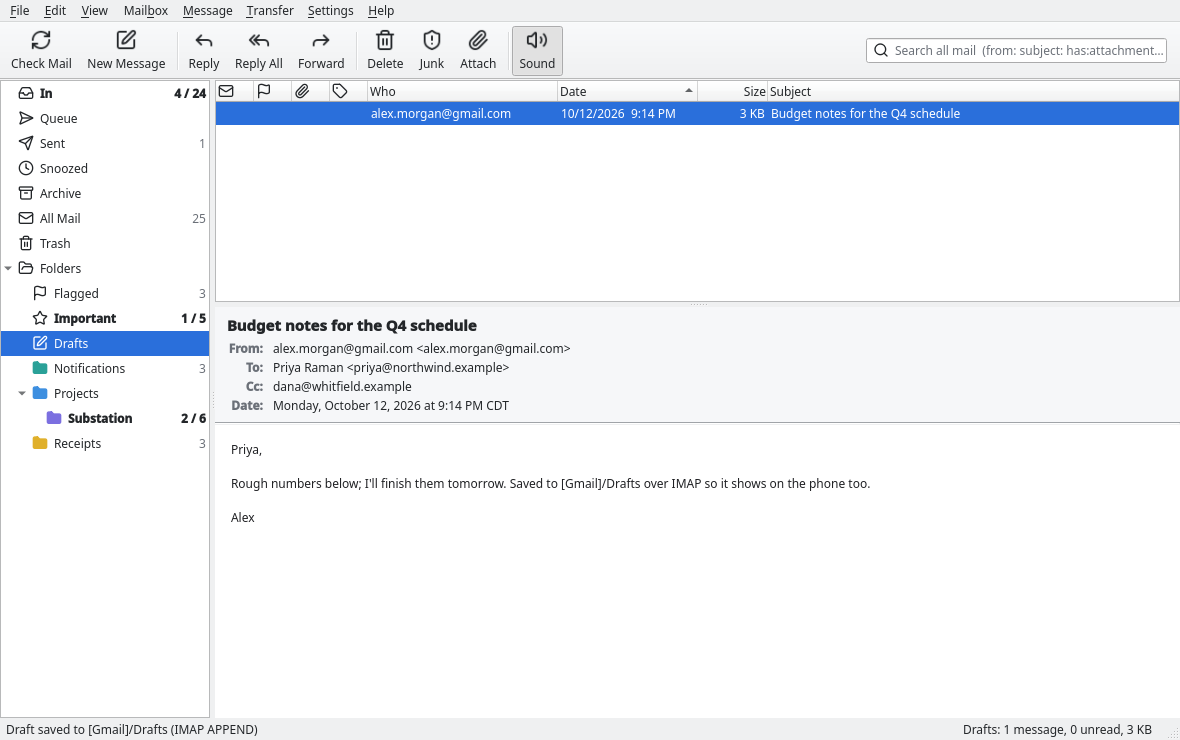
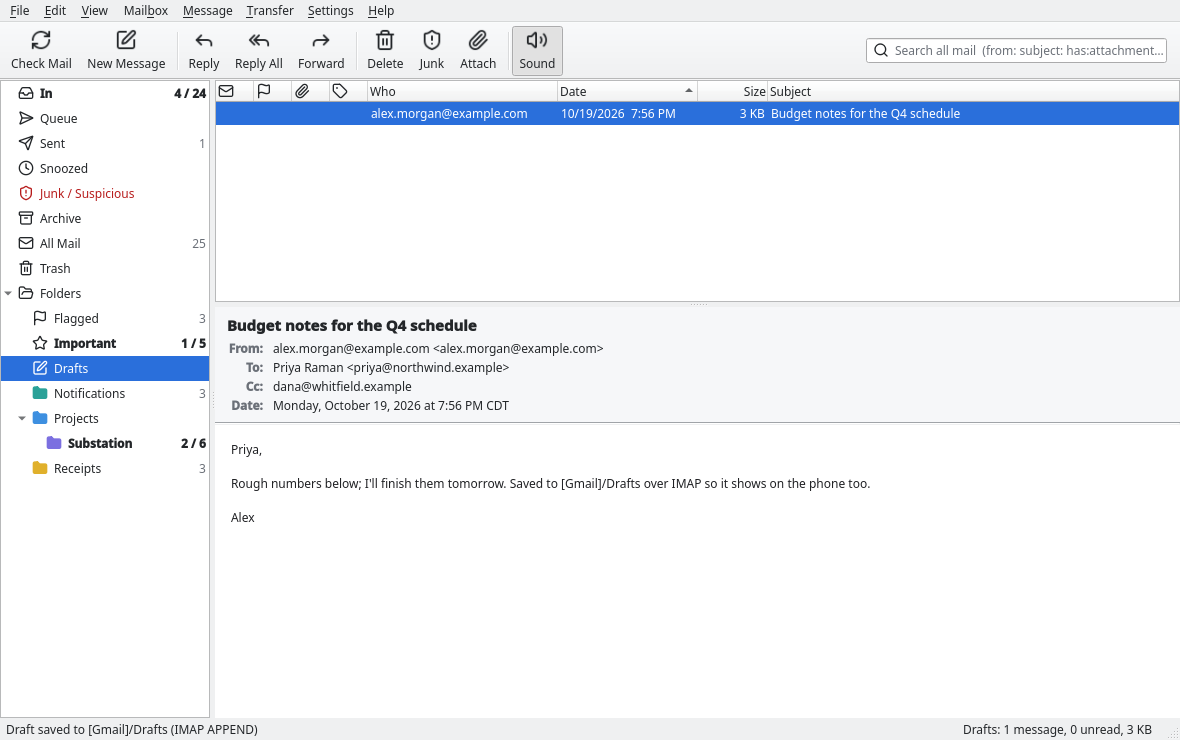
Docs and tests: no personal or real-domain addresses; regenerate screenshots
docs/PLAN.md no longer names a personal address. Test fixtures use
example.com / .example addresses (gmail.com, outlook.com, comed.com and
other registrable domains replaced). The app-password and IMAP screenshots
are regenerated offscreen against the fake servers.

diff --git a/tests/tst_emptyjunk.cpp b/tests/tst_emptyjunk.cpp
@@ -47,9 +47,9 @@ using zmail::test::MockGoogle;
 
 namespace {
 
-QByteArray mail(const QString &subject, const char *from = "Crypto Alerts <alerts@coin-boost.top>")
+QByteArray mail(const QString &subject, const char *from = "Crypto Alerts <alerts@coin-boost.example>")
 {
-    return QByteArray("From: ") + from + "\r\nTo: Alex Morgan <alex.morgan@gmail.com>\r\nSubject: " + subject.toUtf8()
+    return QByteArray("From: ") + from + "\r\nTo: Alex Morgan <alex.morgan@example.com>\r\nSubject: " + subject.toUtf8()
            + "\r\nDate: Mon, 12 Oct 2026 22:40:00 -0500\r\nMessage-ID: <" + subject.toUtf8().toHex().left(24)
            + "@mail.test>\r\nContent-Type: text/plain; charset=utf-8\r\n\r\nHello.\r\n";
 }
@@ -76,7 +76,7 @@ struct ImapRig
     explicit ImapRig(int spamCount, bool start = true)
     {
         for (int i = 0; i < 3; ++i) {
-            inbox << server.deliver(mail(QStringLiteral("Panel schedule %1").arg(i), "Dana Whitfield <dana@lakeshore-electric.com>"));
+            inbox << server.deliver(mail(QStringLiteral("Panel schedule %1").arg(i), "Dana Whitfield <dana@lakeshore-electric.example>"));
         }
         for (int i = 0; i < spamCount; ++i) {
             spam << server.deliver(mail(QStringLiteral("Double your balance %1").arg(i)), {QStringLiteral("\\Spam")});
@@ -167,7 +167,7 @@ struct ApiRig
     static MockGoogle::Message msg(const QString &subject, const QStringList &labels)
     {
         MockGoogle::Message m;
-        m.from = QStringLiteral("Crypto Alerts <alerts@coin-boost.top>");
+        m.from = QStringLiteral("Crypto Alerts <alerts@coin-boost.example>");
         m.to = QStringLiteral("demo.user@example.com");
         m.subject = subject;
         m.text = QStringLiteral("Body of ") + subject;
@@ -207,7 +207,7 @@ struct UiRig
 
     explicit UiRig(int spamCount)
     {
-        imap.deliver(mail(QStringLiteral("Panel schedule for the Oak St job"), "Dana Whitfield <dana.whitfield@lakeshore-electric.com>"));
+        imap.deliver(mail(QStringLiteral("Panel schedule for the Oak St job"), "Dana Whitfield <dana.whitfield@lakeshore-electric.example>"));
         imap.deliver(mail(QStringLiteral("Lunch on Thursday?"), "Sam Ortiz <sam.ortiz@example.org>"));
         imap.deliver(mail(QStringLiteral("Your October statement is ready"), "Northside Credit Union <statements@northside-cu.example>"));
         for (int i = 0; i < spamCount; ++i) {
@@ -215,7 +215,7 @@ struct UiRig
                                       : i < 4 ? QStringList{QStringLiteral("You have been selected"), QStringLiteral("Final notice: claim your prize"),
                                                             QStringLiteral("Cheap meds, no prescription")}.at(i - 1)
                                               : QStringLiteral("Prize notice %1").arg(i),
-                                      i % 2 ? "Prize Desk <winner@prize-desk.biz>" : "Crypto Alerts <alerts@coin-boost.top>"),
+                                      i % 2 ? "Prize Desk <winner@prize-desk.example>" : "Crypto Alerts <alerts@coin-boost.example>"),
                                  {QStringLiteral("\\Spam")});
         }
         store.values.insert(AppPasswordAccount::appPasswordKey(imap.user), imap.password);

diff --git a/tests/dialogshot.cpp b/tests/dialogshot.cpp
@@ -66,7 +66,7 @@ void shoot(QWidget *w, const QString &path)
 void fill(ui::AppPasswordDialog &d, const QString &pw)
 {
     d.findChild<QLineEdit *>(QStringLiteral("displayNameEdit"))->setText(QStringLiteral("Alex Morgan"));
-    d.findChild<QLineEdit *>(QStringLiteral("emailEdit"))->setText(QStringLiteral("alex.morgan@gmail.com"));
+    d.findChild<QLineEdit *>(QStringLiteral("emailEdit"))->setText(QStringLiteral("alex.morgan@example.com"));
     d.findChild<QLineEdit *>(QStringLiteral("appPasswordEdit"))->setText(pw);
 }
 bool waitTest(ui::AppPasswordDialog &d)
@@ -222,7 +222,7 @@ int main(int argc, char *argv[])
             d.subject = QStringLiteral("From line with your name");
             c.setDraft(d);
             c.findChild<QTextEdit *>(QStringLiteral("composeBody"))
-                ->setPlainText(QStringLiteral("From now shows \u201cAlex Morgan <alex.morgan@gmail.com>\u201d: set in the account "
+                ->setPlainText(QStringLiteral("From now shows \u201cAlex Morgan <alex.morgan@example.com>\u201d: set in the account "
                                               "dialog or Settings \u2192 Your Name\u2026"));
             c.resize(820, 420);
             c.show();
@@ -263,7 +263,7 @@ int main(int argc, char *argv[])
             snap("imap-drafts.png");
             for (const char *subj : {"Site visit moved to Thursday", "Invoice 4471 follow-up"}) {
                 MailCache::QueuedMessage q;
-                q.mime = QByteArray("From: Alex Morgan <alex.morgan@gmail.com>\r\nTo: Marcus Lee <marcus.lee@example.org>\r\n"
+                q.mime = QByteArray("From: Alex Morgan <alex.morgan@example.com>\r\nTo: Marcus Lee <marcus.lee@example.org>\r\n"
                                     "Subject: ") + subj + "\r\nMIME-Version: 1.0\r\nContent-Type: text/plain\r\n\r\n"
                                     "Sent with File > Send Queued Messages over SMTP.\r\n";
                 q.subject = QString::fromLatin1(subj);
@@ -310,7 +310,7 @@ int main(int argc, char *argv[])
             QSignalSpy got(sync, &SyncEngine::newMail);
             QTest::qWaitFor([&] { return imap.anyIdling(); }, 5000);
             const QByteArray pdf("%PDF-1.4 fake demo bytes\n");
-            imap.deliver("From: Jordan Kim <jordan.kim@example.net>\r\nTo: alex.morgan@gmail.com\r\n"
+            imap.deliver("From: Jordan Kim <jordan.kim@example.net>\r\nTo: alex.morgan@example.com\r\n"
                          "Subject: Breaker spec sheet (attachment over IMAP)\r\nMIME-Version: 1.0\r\n"
                          "Content-Type: multipart/mixed; boundary=b1\r\n\r\n--b1\r\nContent-Type: text/plain\r\n\r\n"
                          "Spec sheet attached; File > Save Attachments fetches it over IMAP.\r\n--b1\r\n"

diff --git a/tests/tst_imapextras.cpp b/tests/tst_imapextras.cpp
@@ -59,7 +59,7 @@ struct Engine
 
 QByteArray mail(const QByteArray &subject)
 {
-    return "From: Alex Morgan <alex.morgan@gmail.com>\r\nTo: priya@northwind.example\r\nSubject: " + subject
+    return "From: Alex Morgan <alex.morgan@example.com>\r\nTo: priya@northwind.example\r\nSubject: " + subject
         + "\r\nMIME-Version: 1.0\r\nContent-Type: text/plain\r\n\r\nHello.\r\n";
 }
 
@@ -315,7 +315,7 @@ private slots:
         auto *name = d.findChild<QLineEdit *>(QStringLiteral("displayNameEdit"));
         QVERIFY(name);
         name->setText(QStringLiteral("  Alex Morgan "));
-        d.findChild<QLineEdit *>(QStringLiteral("emailEdit"))->setText(QStringLiteral("alex.morgan@gmail.com"));
+        d.findChild<QLineEdit *>(QStringLiteral("emailEdit"))->setText(QStringLiteral("alex.morgan@example.com"));
         QCOMPARE(d.account().displayName, QStringLiteral("Alex Morgan"));
 
         FakeImapServer imap;
@@ -342,17 +342,17 @@ private slots:
         MainWindow w;
         w.setSession(&session);
         session.restoreSaved();
-        QCOMPARE(session.fromHeader(), QStringLiteral("Alex Morgan <alex.morgan@gmail.com>"));
+        QCOMPARE(session.fromHeader(), QStringLiteral("Alex Morgan <alex.morgan@example.com>"));
 
         QSignalSpy identity(&session, &MailSession::identityChanged);
         const QString answer = QStringLiteral("Morgan, Alex");
         QVERIFY(w.editDisplayName(&answer));
         QCOMPARE(identity.count(), 1);
-        QCOMPARE(session.fromHeader(), QStringLiteral("\"Morgan, Alex\" <alex.morgan@gmail.com>"));
+        QCOMPARE(session.fromHeader(), QStringLiteral("\"Morgan, Alex\" <alex.morgan@example.com>"));
         QCOMPARE(AppPasswordAccount::load(QSettings()).displayName, answer);
         const QString blank;
         QVERIFY(w.editDisplayName(&blank));
-        QCOMPARE(session.fromHeader(), QStringLiteral("alex.morgan@gmail.com"));
+        QCOMPARE(session.fromHeader(), QStringLiteral("alex.morgan@example.com"));
 
         // No vacation responder over IMAP/SMTP: say where to set it instead.
         QVERIFY(!w.showVacationDialog());

diff --git a/tests/tst_send.cpp b/tests/tst_send.cpp
@@ -270,7 +270,7 @@ private slots:
         OutgoingMessage m;
         m.from = QStringLiteral("Demo User <demo.user@example.com>");
         m.to = QStringLiteral("\"Raman, Priya\" <priya.raman@example.com>, h.lindqvist@example.com");
-        m.cc = QStringLiteral("José Núñez <jose@example.es>");
+        m.cc = QStringLiteral("José Núñez <jose@example.org>");
         m.bcc = QStringLiteral("audit@example.com");
         m.subject = QStringLiteral("Q4 budget — numbers attached ✓");
         m.text = QStringLiteral("Hi Priya,\n\nNumbers attached. Café at 3?\n");
@@ -289,7 +289,7 @@ private slots:
         QCOMPARE(p.headers.value("to"),
                  QStringLiteral("\"Raman, Priya\" <priya.raman@example.com>, h.lindqvist@example.com"));
         QVERIFY(p.headers.value("cc").startsWith(QStringLiteral("=?UTF-8?")));
-        QCOMPARE(decodeWords(p.headers.value("cc")), QStringLiteral("José Núñez <jose@example.es>"));
+        QCOMPARE(decodeWords(p.headers.value("cc")), QStringLiteral("José Núñez <jose@example.org>"));
         QCOMPARE(p.headers.value("bcc"), QStringLiteral("audit@example.com")); // Gmail strips it on delivery
         QCOMPARE(decodeWords(p.headers.value("subject")), m.subject);
         QVERIFY(p.headers.value("user-agent").startsWith(QStringLiteral("zmail/1.0.0")));
@@ -368,8 +368,8 @@ private slots:
 
     void addressListsSplitOnUnquotedCommas()
     {
-        QCOMPARE(MimeBuilder::splitAddresses(QStringLiteral("\"Raman, Priya\" <p@x.com>, b@x.com,, <c@x.com>")),
-                 (QStringList{QStringLiteral("\"Raman, Priya\" <p@x.com>"), QStringLiteral("b@x.com"), QStringLiteral("<c@x.com>")}));
+        QCOMPARE(MimeBuilder::splitAddresses(QStringLiteral("\"Raman, Priya\" <p@x.example>, b@x.example,, <c@x.example>")),
+                 (QStringList{QStringLiteral("\"Raman, Priya\" <p@x.example>"), QStringLiteral("b@x.example"), QStringLiteral("<c@x.example>")}));
     }
 
     // ---- formats -----------------------------------------------------------------

diff --git a/tests/tst_nodemo.cpp b/tests/tst_nodemo.cpp
@@ -26,7 +26,7 @@ namespace {
 
 QByteArray mail(const char *from, const char *subject, const char *date, const char *body)
 {
-    return QByteArray("From: ") + from + "\r\nTo: Stephen Johnson <stephen@gmail.com>\r\nSubject: " + subject
+    return QByteArray("From: ") + from + "\r\nTo: Stephen Johnson <stephen@example.com>\r\nSubject: " + subject
            + "\r\nDate: " + date + "\r\nMessage-ID: <" + QByteArray(subject).toHex().left(24)
            + "@mail.test>\r\nContent-Type: text/plain; charset=utf-8\r\n\r\n" + body + "\r\n";
 }
@@ -78,13 +78,13 @@ struct Live
 
     Live()
     {
-        imap.deliver(mail("Dana Whitfield <dana.whitfield@lakeshore-electric.com>", "Panel schedule for the Oak St job",
+        imap.deliver(mail("Dana Whitfield <dana.whitfield@lakeshore-electric.example>", "Panel schedule for the Oak St job",
                           "Mon, 12 Oct 2026 09:14:00 -0500", "Revised panel schedule attached for review."));
         imap.deliver(mail("Chicago Public Library <noreply@chipublib.org>", "Your hold is ready for pickup",
                           "Mon, 12 Oct 2026 13:02:00 -0500", "Your hold is ready at the Lincoln Park branch."));
-        imap.deliver(mail("Mark Ostrowski <mark.ostrowski@outlook.com>", "Saturday tee time",
+        imap.deliver(mail("Mark Ostrowski <mark.ostrowski@example.net>", "Saturday tee time",
                           "Tue, 13 Oct 2026 07:45:00 -0500", "8:10 at Harborside, still on?"));
-        imap.deliver(mail("ComEd <billing@comed.com>", "Your October bill is ready",
+        imap.deliver(mail("Northside Power <billing@northside-power.example>", "Your October bill is ready",
                           "Tue, 13 Oct 2026 08:30:00 -0500", "Amount due: $112.40."));
         store.values.insert(AppPasswordAccount::appPasswordKey(imap.user), imap.password);
         AppPasswordAccount a;

diff --git a/tests/tst_imapspam.cpp b/tests/tst_imapspam.cpp
@@ -23,7 +23,7 @@ namespace {
 
 QByteArray mail(const char *from, const char *subject, const char *date)
 {
-    return QByteArray("From: ") + from + "\r\nTo: Stephen Johnson <stephen@gmail.com>\r\nSubject: " + subject
+    return QByteArray("From: ") + from + "\r\nTo: Stephen Johnson <stephen@example.com>\r\nSubject: " + subject
            + "\r\nDate: " + date + "\r\nMessage-ID: <" + QByteArray(subject).toHex().left(24)
            + "@mail.test>\r\nContent-Type: text/plain; charset=utf-8\r\n\r\nHello.\r\n";
 }
@@ -40,11 +40,11 @@ struct Rig
 
     Rig()
     {
-        keep = imap.deliver(mail("Dana Whitfield <dana.whitfield@lakeshore-electric.com>", "Panel schedule for the Oak St job",
+        keep = imap.deliver(mail("Dana Whitfield <dana.whitfield@lakeshore-electric.example>", "Panel schedule for the Oak St job",
                                  "Mon, 12 Oct 2026 09:14:00 -0500"));
-        junk = imap.deliver(mail("Prize Desk <winner@prize-desk.biz>", "You have been selected",
+        junk = imap.deliver(mail("Prize Desk <winner@prize-desk.example>", "You have been selected",
                                  "Tue, 13 Oct 2026 06:02:00 -0500"));
-        spam = imap.deliver(mail("Crypto Alerts <alerts@coin-boost.top>", "Double your balance today",
+        spam = imap.deliver(mail("Crypto Alerts <alerts@coin-boost.example>", "Double your balance today",
                                  "Mon, 12 Oct 2026 22:40:00 -0500"),
                             {QStringLiteral("\\Spam")});
         store.values.insert(AppPasswordAccount::appPasswordKey(imap.user), imap.password);

diff --git a/tests/mock/FakeImapServer.cpp b/tests/mock/FakeImapServer.cpp
@@ -860,7 +860,7 @@ QByteArray FakeImapServer::makeMessage(const QString &fromName, const QString &f
     const QDateTime date = dateIn.isValid() ? dateIn : QDateTime::currentDateTime();
     QByteArray m;
     m += "From: " + fromName.toUtf8() + " <" + fromAddr.toUtf8() + ">\r\n";
-    m += "To: Alex Morgan <alex.morgan@gmail.com>\r\n";
+    m += "To: Alex Morgan <alex.morgan@example.com>\r\n";
     // Non-ASCII subjects go out as RFC 2047 encoded-words, as real mail does.
     bool ascii = true;
     for (const QChar c : subject) {
@@ -929,7 +929,7 @@ void FakeImapServer::seedDemo(int count)
                             QString::fromUtf8(p.text), html, when),
                 labels, flags, QLocale::c().toString(when.toUTC(), QStringLiteral("dd-MMM-yyyy HH:mm:ss +0000")));
     }
-    deliver(makeMessage(QStringLiteral("Alex Morgan"), QStringLiteral("alex.morgan@gmail.com"),
+    deliver(makeMessage(QStringLiteral("Alex Morgan"), QStringLiteral("alex.morgan@example.com"),
                         QStringLiteral("Re: Lunch on Thursday?"), QStringLiteral("Thursday works. See you at noon.")),
             {QStringLiteral("\\Sent")}, {QStringLiteral("\\Seen")});
 }

diff --git a/tests/tst_smtp.cpp b/tests/tst_smtp.cpp
@@ -25,7 +25,7 @@ namespace {
 
 QByteArray mail(const QByteArray &subject, const QByteArray &extraHeaders = {}, const QByteArray &body = "Hello.\r\n")
 {
-    return "From: Alex Morgan <alex.morgan@gmail.com>\r\n"
+    return "From: Alex Morgan <alex.morgan@example.com>\r\n"
            "To: \"Raman, Priya\" <priya@northwind.example>, marcus.lee@example.org\r\n"
            "Cc: Dana <dana@whitfield.example>\r\n"
            + extraHeaders + "Subject: " + subject + "\r\nMessage-ID: <" + subject.toHex().left(16)
@@ -129,7 +129,7 @@ private slots:
         QVERIFY2(res.ok, qPrintable(res.err.message));
         QCOMPARE(r.smtp.delivered.size(), 1);
         const auto &d = r.smtp.delivered.first();
-        QCOMPARE(d.from, QByteArray("alex.morgan@gmail.com"));
+        QCOMPARE(d.from, QByteArray("alex.morgan@example.com"));
         QCOMPARE(d.rcpts.size(), 4);
         QVERIFY(d.rcpts.contains("boss@northwind.example"));
         QVERIFY(!d.data.contains("boss@northwind.example")); // Bcc stays out of the message

diff --git a/tests/tst_imapactions.cpp b/tests/tst_imapactions.cpp
@@ -298,7 +298,7 @@ private slots:
         Rig r(3);
         const QByteArray pdf("%PDF-1.4 fake test bytes\n\x01\x02\x03", 28);
         const QByteArray raw =
-            "From: Jordan Kim <jordan.kim@example.net>\r\nTo: alex.morgan@gmail.com\r\nSubject: Breaker spec sheet\r\n"
+            "From: Jordan Kim <jordan.kim@example.net>\r\nTo: alex.morgan@example.com\r\nSubject: Breaker spec sheet\r\n"
             "Message-ID: <spec@example.net>\r\nMIME-Version: 1.0\r\nContent-Type: multipart/mixed; boundary=b1\r\n\r\n"
             "--b1\r\nContent-Type: text/plain\r\n\r\nSpec sheet attached.\r\n"
             "--b1\r\nContent-Type: application/pdf; name=\"breaker-spec.pdf\"\r\n"

diff --git a/src/core/AppPasswordAccount.h b/src/core/AppPasswordAccount.h
@@ -19,7 +19,7 @@ enum class AccountKind { GmailOAuth, GmailAppPassword };
 struct AppPasswordAccount
 {
     QString email;
-    QString displayName; // shown in From: "Alex Morgan <alex@gmail.com>" (optional)
+    QString displayName; // shown in From: "Alex Morgan <alex@example.com>" (optional)
     QString imapHost = QStringLiteral("imap.gmail.com");
     int imapPort = 993;
     QString smtpHost = QStringLiteral("smtp.gmail.com");

diff --git a/tests/mock/FakeSmtpServer.h b/tests/mock/FakeSmtpServer.h
@@ -51,7 +51,7 @@ public:
     }
     quint16 port() const { return m_server.serverPort(); }
 
-    QString user = QStringLiteral("alex.morgan@gmail.com");
+    QString user = QStringLiteral("alex.morgan@example.com");
     QString password = QStringLiteral("abcdefghijklmnop"); // made up
     QList<Delivery> delivered;
     QList<QByteArray> commands;      // command lines; AUTH's argument is masked

diff --git a/tests/mock/FakeImapServer.h b/tests/mock/FakeImapServer.h
@@ -41,7 +41,7 @@ public:
     ~FakeImapServer() override;
 
     quint16 port() const { return m_server.serverPort(); }
-    QString user = QStringLiteral("alex.morgan@gmail.com");
+    QString user = QStringLiteral("alex.morgan@example.com");
     QString password = QStringLiteral("abcdefghijklmnop"); // made up
     bool idleCapable = true;
     bool condstoreCapable = true;
